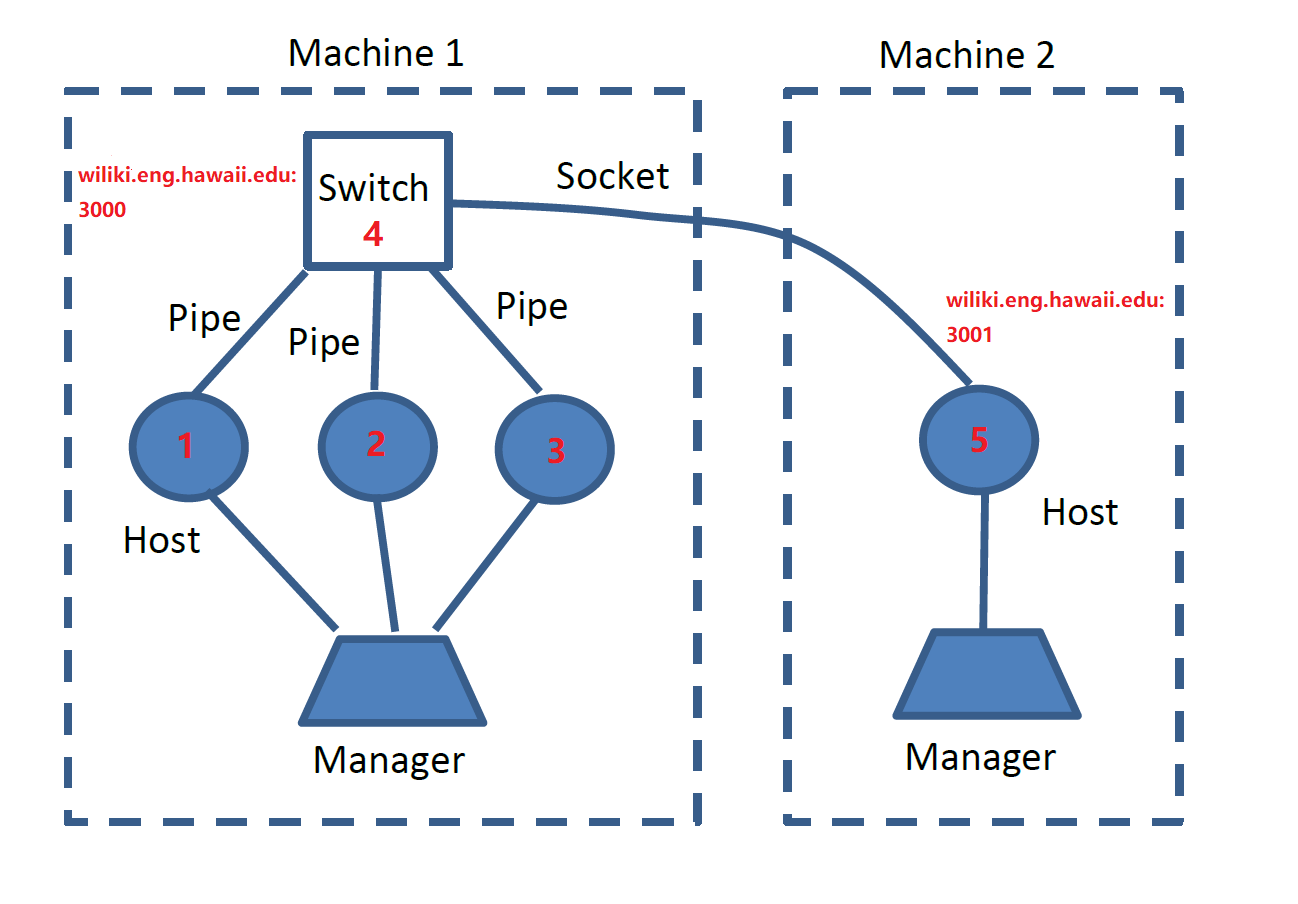
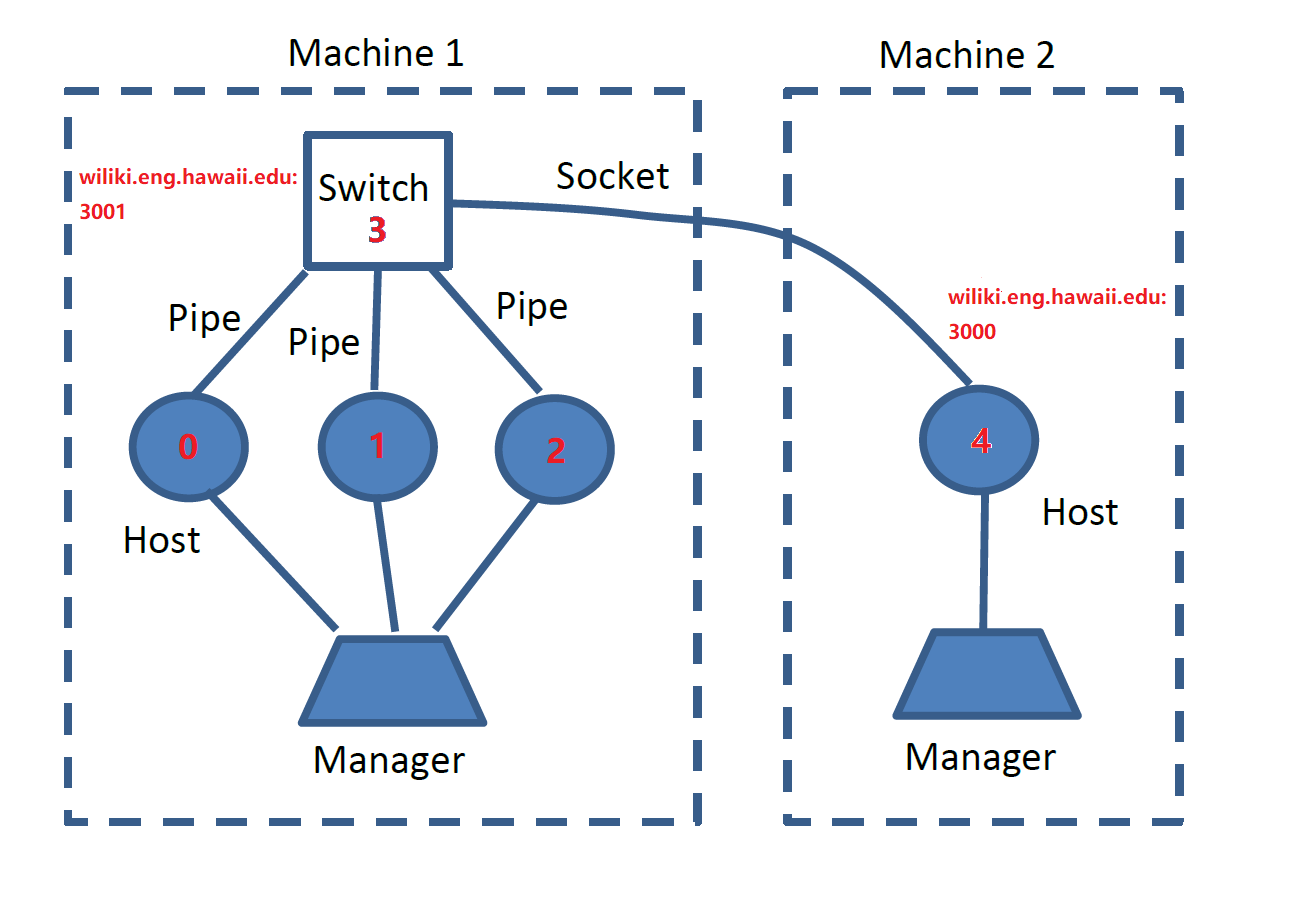
modified:   Figure1.png 	modified:   Lab5.md

diff --git a/Lab5/Lab5.md b/Lab5/Lab5.md
@@ -55,18 +55,15 @@
   
     - The enum type **host_job_type** is defined here. We may need to define more types of jobs in it.
     
-  - **switch.c**: We will create the file to implement the switch node, which is similar to a host node but has no connection to the manager.
-  
-    - **host_main()**: has a infinite loop, where it does the following in each pass
-    
-      1. Examine its incoming network link and convert a packet into a “job”, then put the job in a job queue.
-      
-      2. Take exactly one job from the job queue, and execute the job.
+  - **switch.c**: We will create the file to implement the switch node, which is similar to a host node but has no connection to the manager. Also, as the tasks is quite simple for a switch node, we don't have to implement the job queue but directly execute the tasks sequentially.
 
-         This may create more jobs, which are put in the job queue.
-        
+    - **switch_main()**: has a infinite loop, where it does the following in each pass
+
+      1. Examine its incoming network link and get packets.
+      2. Look up the destination node ID in the forwarding table, and record the port number and the source node ID if there is no entry for such port. 
+      3. Forward the packet to the corresponding port if we know, or broadcast the packet.
       3. Go to sleep for ten milliseconds.
-    
+
 
   
 
@@ -74,12 +71,41 @@
 
 - **host.c** : function **job_q_add()** (line 169)
 
-  Add the following statement in the "then branch" (After line 174):
+  Add the following statement in the "then branch" (**After line 174**):
 
-  `j->next = NULL;`
+  ```c
+  j->next = NULL;
+  ```
 
   Without this statement, the jobs added to the queue may be lost.
 
+- **net.c** : function **load_net_data_file()**
+
+  In **line 461**, change the "`=`" to "`==`" in the following if statement:
+
+  ```c
+  if (node_type = 'H') {
+  ```
+
+- **Configuration file**
+
+  Note that there is a restriction of node ID that the ID should be consecutive numbers starting from 0, (function load_net_data_file(), from line 470 to line 474 in net.c), so the configuration file showing the topology in Figure 1 (4 host nodes and 1 switch nodes) should be like this:
+
+  ```
+  5
+  H 0
+  H 1
+  S 2
+  H 3
+  H 4
+  4
+  P 0 2
+  P 1 2
+  P 2 3
+  P 2 4
+  ```
+
+  
 
 
 ## Assignments
@@ -117,14 +143,17 @@
       - In the job **JOB_FILE_DOWNLOAD_SEND**, the file receiving host a request to the file sending host, who check the existance of the files. If the file exists, using the mechanizm similiar to uploading to download the file.
     
   - Improvement 2: Switch node
-  
+
     Hints:
-    
+
     - Create new files **switch.c** and possibly **switch.h** to implement the switch node.
-      The structure of the switch.c is similar to the host.c, which contains a infinite loop to deal with the jobs, except that the switch has no connection to the manager.
-      
-    - Add switch node and more host nodes into the configuration file.
-    
+      The structure of the switch.c is similar to the host.c, which contains a infinite loop to deal with the tasks, except that the switch has no connection to the manager. 
+    - As the tasks is quite simple for a switch node, we don't have to implement the job queue but directly execute the tasks sequentially. In the has a infinite loop **switch_main()**, we need to do:
+      - Look up the destination node ID in the forwarding table, and record the port number and the source node ID if there is no entry in the table for them. 
+      - If we can figure out the corresponding port for the destination, then forward the packet the to such port, otherwise broadcast the packet to all ports except the one it was received on.
+    - Add switch node and more host nodes into the configuration file. No that the node IDs need to start from 0.
+    - Modify main.c, net.c (in function **load_net_data_file()**) to support switch node.
+
   - Improvement 3: Sockets as a link option
 
     - Implement sockets to connect two subnetworks.
@@ -143,12 +172,12 @@
       ![Figure 1](https://github.com/duck8880/EE367L/blob/master/Lab5/Figure1.png)
 
       In the configuration file for Machine 1, we write:  
-      `S 4 wiliki.eng.hawaii.edu 3000 wiliki.eng.hawaii.edu 3001`  
+      `S 3 wiliki.eng.hawaii.edu 3001 wiliki.eng.hawaii.edu 3000`  
 
-      which means node 4 as a server, have the domain name "wiliki.eng.hawaii.edu" and the port number "3000", and as a client connects to the server at "wiliki.eng.hawaii.edu: 3001".
+      , which means node 3 as a server, have the domain name "wiliki.eng.hawaii.edu" and the port number "3001", and as a client connects to the server at "wiliki.eng.hawaii.edu: 3000".
 
-      In the configuration file for Machine 2, we write:  (It's similar to the above.)
-      `S 5 wiliki.eng.hawaii.edu 3001 wiliki.eng.hawaii.edu 3000`
+      In the configuration file for Machine 1, we write:  (It's similar to the above.)
+      `S 4 wiliki.eng.hawaii.edu 3000 wiliki.eng.hawaii.edu 3001`
 
     - Use the port number assigned to you in the Lab 3 handout. Assign different IDs to nodes even if they are in different machine.
 
